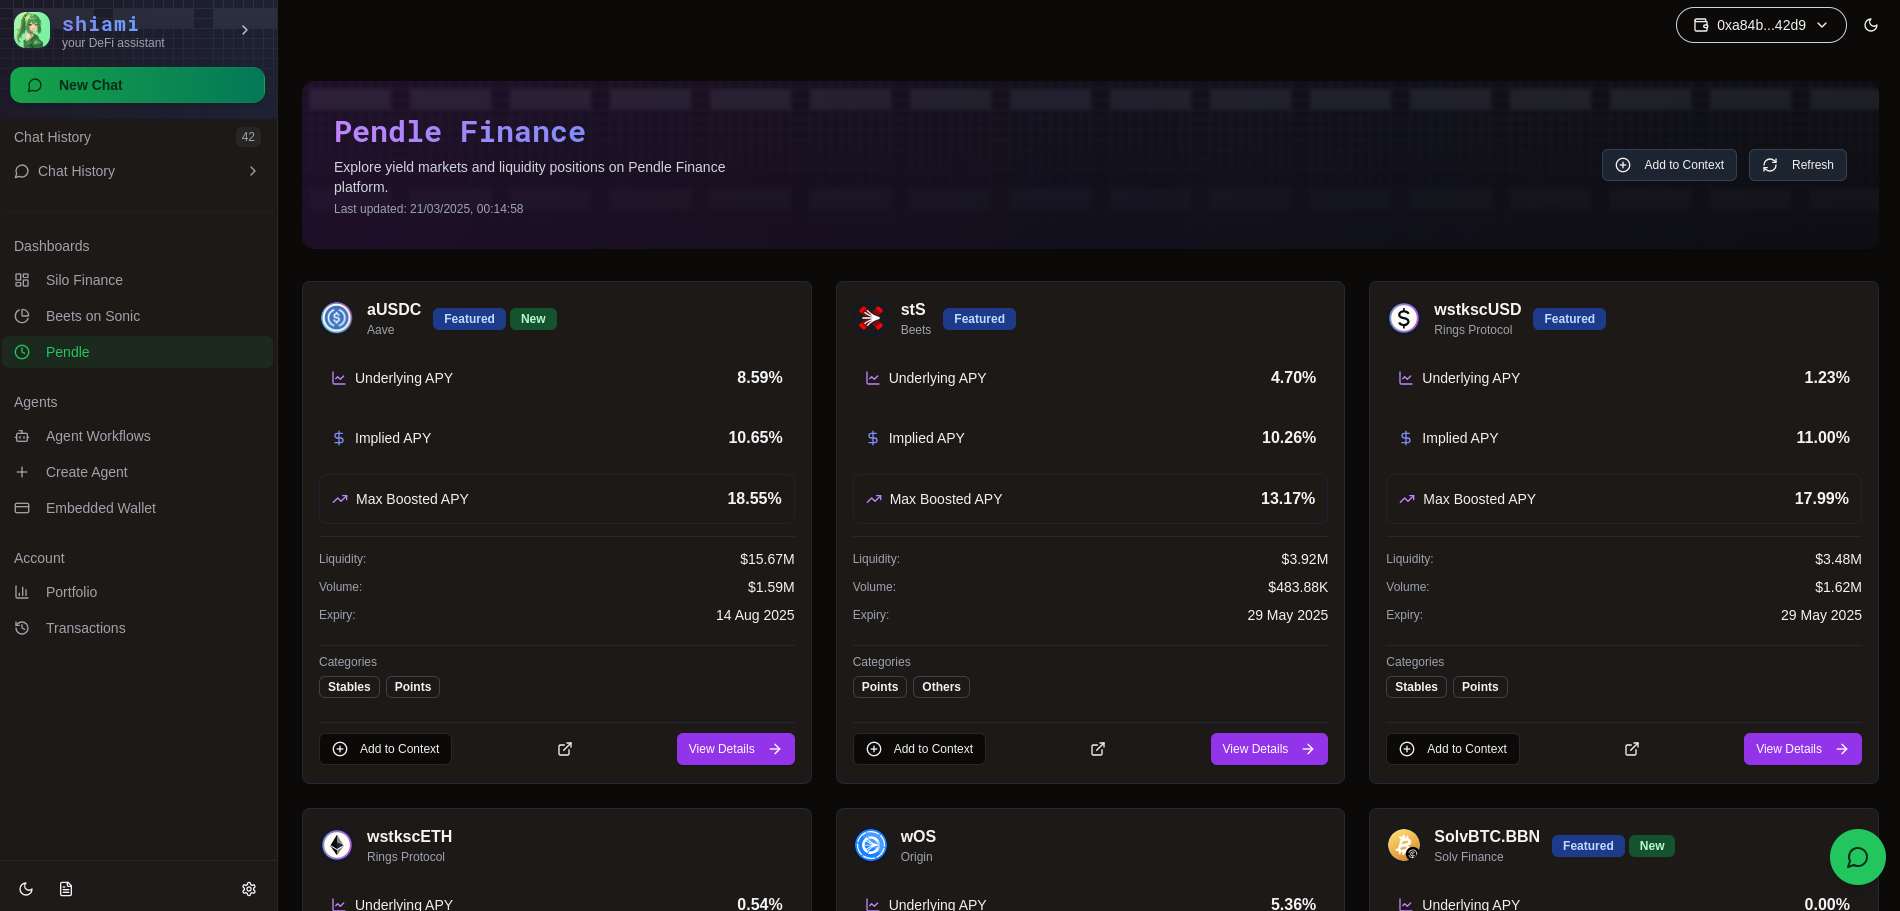
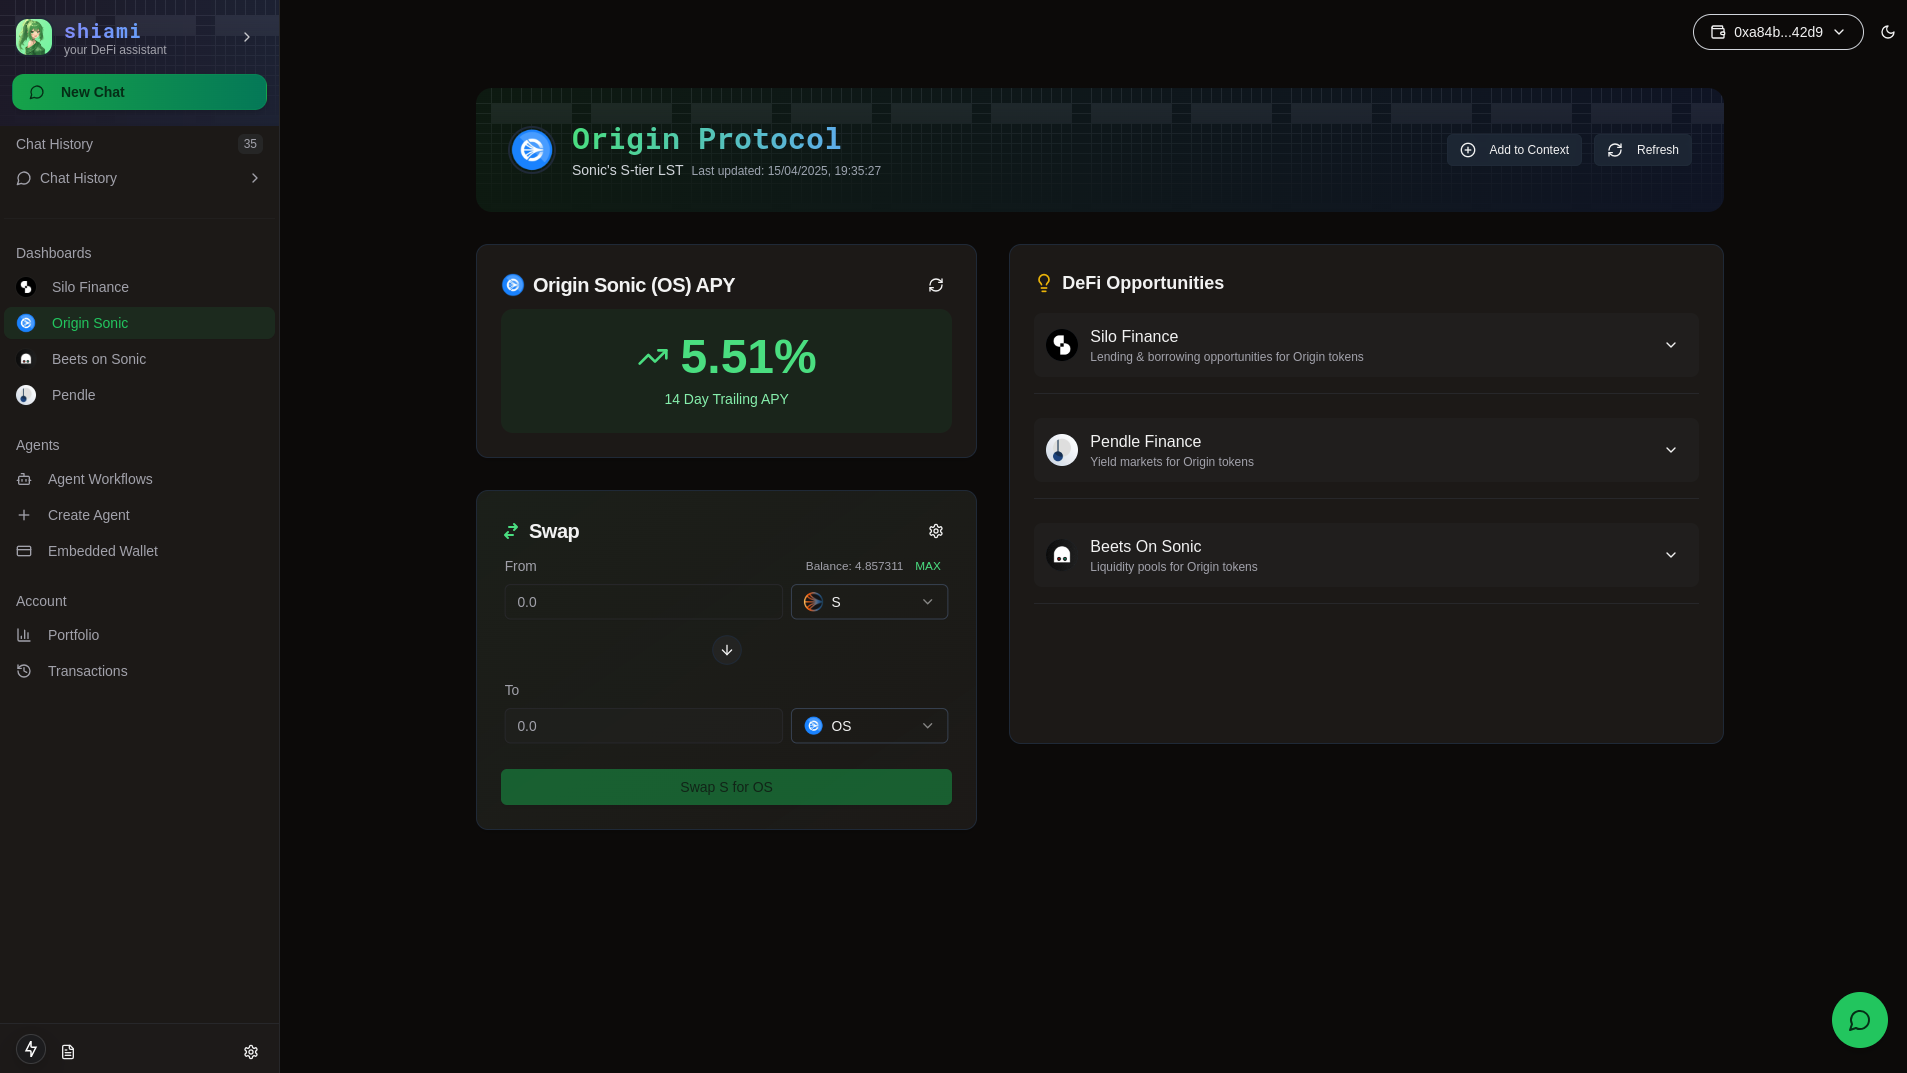
GITBOOK-50: No subject

diff --git a/getting-started/what-can-shiami-do/agent-workflows.md b/getting-started/what-can-shiami-do/agent-workflows.md
@@ -4,13 +4,13 @@ description: Automate On-chain tasks using AI Agent workflows
 
 # Agent Workflows
 
-<figure><img src="../../.gitbook/assets/image (1).png" alt=""><figcaption><p><a href="https://www.shiami.me/dashboard/create-agent">https://www.shiami.me/dashboard/create-agent</a></p></figcaption></figure>
+<figure><img src="../../.gitbook/assets/image (1) (1).png" alt=""><figcaption><p><a href="https://www.shiami.me/dashboard/create-agent">https://www.shiami.me/dashboard/create-agent</a></p></figcaption></figure>
 
 ### Create Agent Workflows
 
 1. (Optional) Delegate your Privy Embedded Wallet for allowing Shiami to execute transactions on your behalf
 
-<figure><img src="../../.gitbook/assets/image (1) (1).png" alt=""><figcaption></figcaption></figure>
+<figure><img src="../../.gitbook/assets/image (1) (1) (1).png" alt=""><figcaption></figcaption></figure>
 
 2.  Navigate to the Create Agent page and create your agent workflow
 

diff --git a/getting-started/what-can-shiami-do/origin-sonic.md b/getting-started/what-can-shiami-do/origin-sonic.md
@@ -1,0 +1,38 @@
+---
+description: Interact with OS using Shiami Chatbot or Dashboard
+---
+
+# Origin Sonic
+
+### Origin Dashboard
+
+1. Swap supported tokens to OS/wOS and vice-versa powered by KyberSwap
+2. Browse DeFi opportunities that use Origin tokens on Silo, Pendle and Beets.fi
+3. Interact with these DeFi protocols directly through the Shiami Origin Dashboard
+
+<figure><img src="../../.gitbook/assets/image.png" alt=""><figcaption><p><a href="https://app.shiami.me/dashboard/origin">https://app.shiami.me/dashboard/origin</a></p></figcaption></figure>
+
+### Chat Operations
+
+**Staking for OS**
+
+<pre><code><strong>Stake 1 S on Origin Protocol
+</strong></code></pre>
+
+or
+
+```
+Swap 1 USDC.e for OS
+```
+
+**Wrap OS tokens**
+
+```
+Wrap 1 OS
+```
+
+**Fetch 14 Day Trailing  APY for OS**
+
+```
+What is the current APY for Origin Sonic token?
+```

diff --git a/getting-started/what-can-shiami-do/pendle-on-shiami.md b/getting-started/what-can-shiami-do/pendle-on-shiami.md
@@ -7,7 +7,7 @@ You can interact with Pendle in two ways:
 1. **Natural language commands** - Simply type what you want to do
 2. **Specialized Pendle Dashboard(of course)**
 
-<figure><img src="../../.gitbook/assets/image.png" alt=""><figcaption><p><a href="https://www.shiami.me/dashboard/pendle">https://www.shiami.me/dashboard/pendle</a></p></figcaption></figure>
+<figure><img src="../../.gitbook/assets/image (1).png" alt=""><figcaption><p><a href="https://www.shiami.me/dashboard/pendle">https://www.shiami.me/dashboard/pendle</a></p></figcaption></figure>
 
 ### Exploring Markets and Assets
 

diff --git a/SUMMARY.md b/SUMMARY.md
@@ -9,6 +9,7 @@
 * [What can Shiami do?](getting-started/what-can-shiami-do/README.md)
   * [Basic Operations](getting-started/what-can-shiami-do/basic-operations.md)
   * [Silo Finance Operations](getting-started/what-can-shiami-do/silo-finance-operations.md)
+  * [Origin Sonic](getting-started/what-can-shiami-do/origin-sonic.md)
   * [Beets on Sonic](getting-started/what-can-shiami-do/beets-on-sonic.md)
   * [Aave Sonic Markets](getting-started/what-can-shiami-do/aave-sonic-markets.md)
   * [Pendle on Shiami](getting-started/what-can-shiami-do/pendle-on-shiami.md)

diff --git a/getting-started/what-can-shiami-do/aave-sonic-markets.md b/getting-started/what-can-shiami-do/aave-sonic-markets.md
@@ -12,9 +12,8 @@ You can interact with the Aave V3 protocol on the Sonic network directly through
 
 To see all available Aave V3 markets on Sonic and their current rates:
 
-```
-Show me all Aave V3 markets
-```
+<pre><code><strong>Show me all Aave V3 markets
+</strong></code></pre>
 
 or
 
